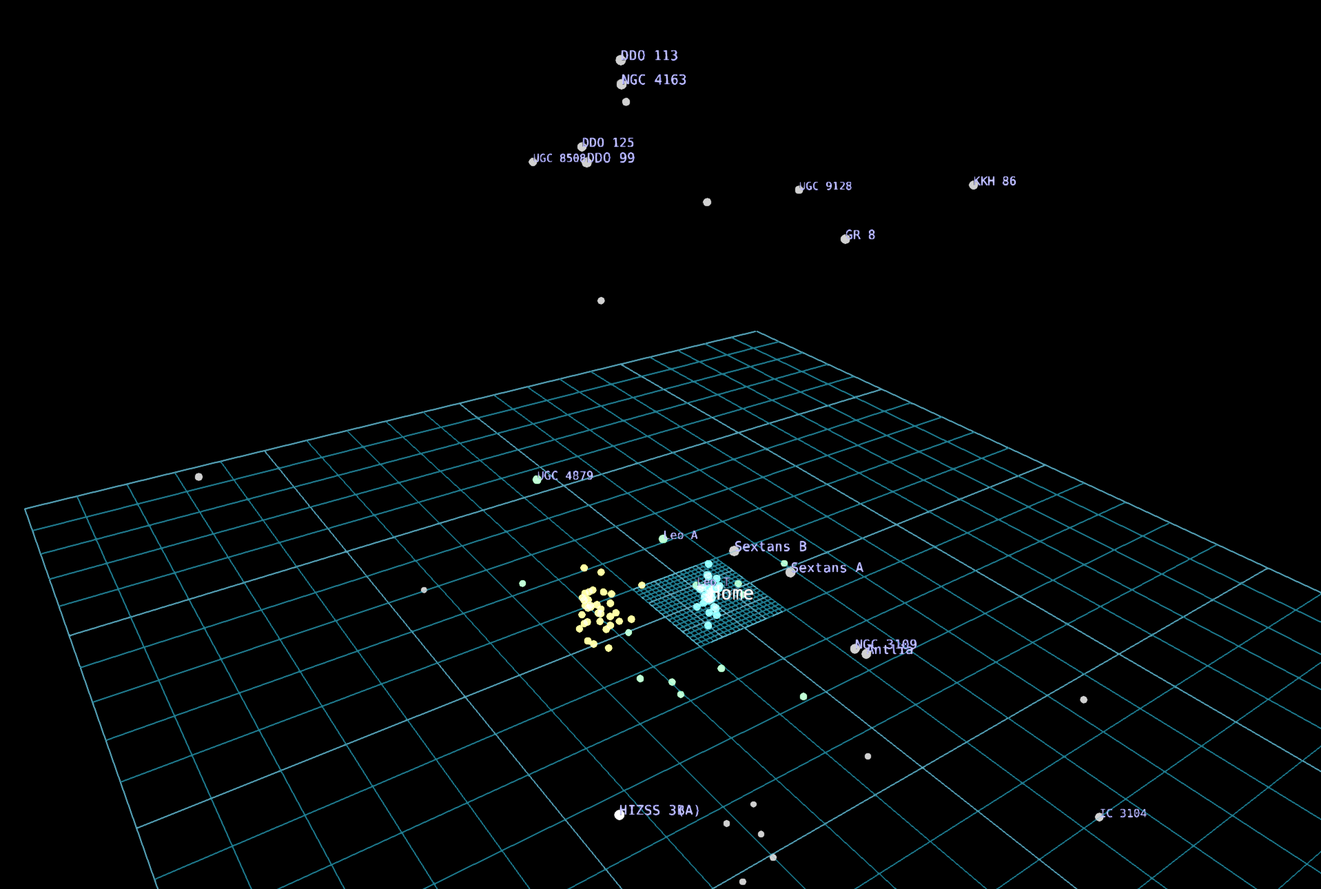
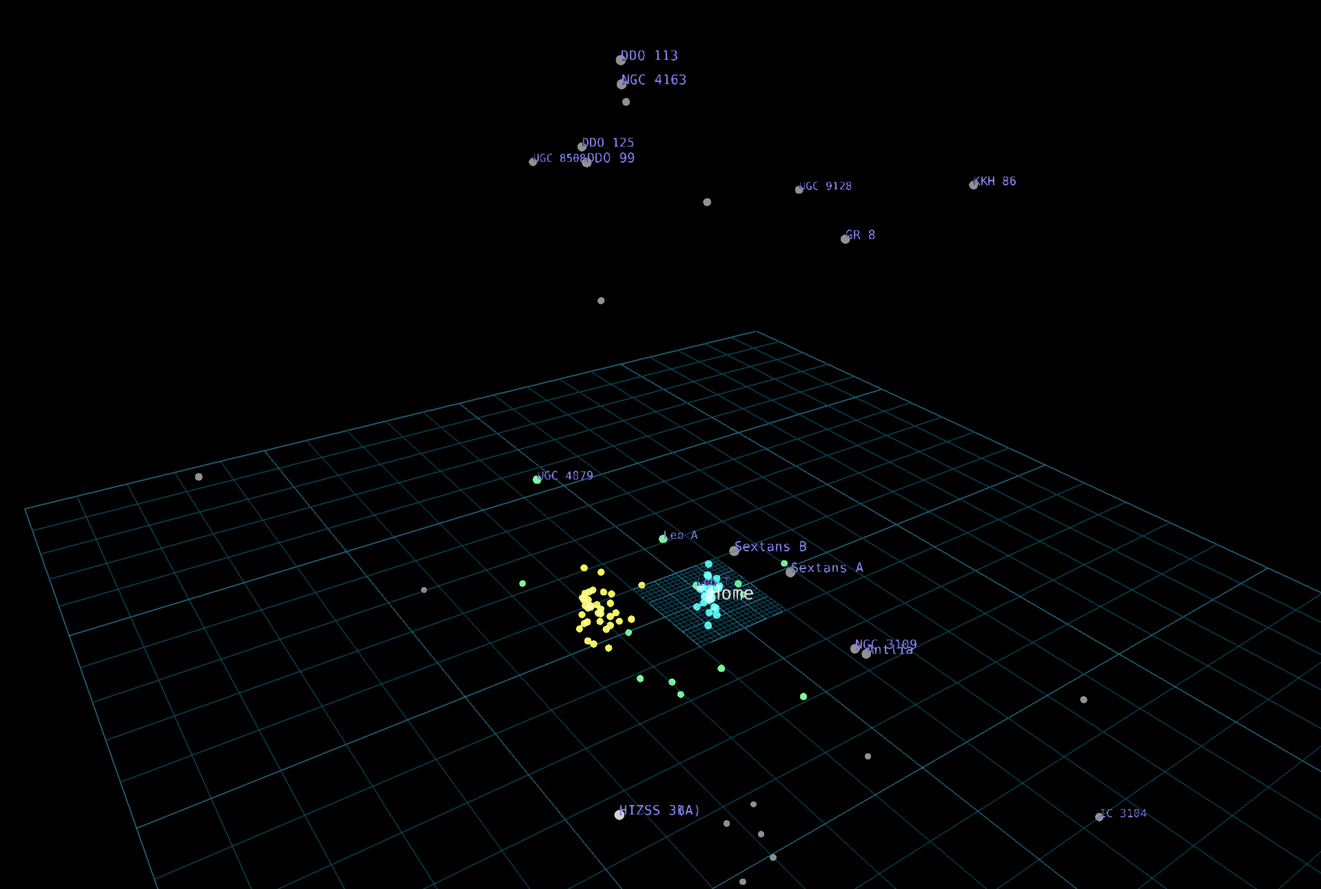
Proofreading and revisions.

diff --git a/content/universe/nearby-surveys/galaxy-cluster-labels/index.md b/content/universe/nearby-surveys/galaxy-cluster-labels/index.md
@@ -10,7 +10,7 @@ authors:
 {menuselection}`Universe --> Nearby Surveys --> Galaxy Cluster Labels`
 
 
-The Galaxy Cluster Labels dataset is a series of labels that mark where the large clusters of galaxies are in the nearby universe. These labels must be used in conjunction with the Tully galaxy group.
+The Galaxy Cluster Labels dataset is a series of labels that mark where the large clusters of galaxies are in the nearby universe. These labels must be used in conjunction with the [Tully Galaxies](../tully-galaxies/index).
 
 
 :::{figure} galaxy_clusters_nearby.png
@@ -39,26 +39,17 @@ Clusters are often named for the constellation in the night sky where they appea
 
 The large-scale structure of the universe is hierarchical in nature. Individual galaxies form small groups and larger galaxy clusters. These are organized into superclusters and filaments, and those, in turn, form larger meta structures like sheets and walls.
 
-In our neck of the woods, we are in the Local Group and the nearest large galaxy cluster is the **Virgo Cluster**, about 54 million light years from Earth. The Virgo Cluster is the heart of the larger Virgo Supercluster, of which the Milky Way and accompanying Local Group are members.
+In our part of the universe, we are in the Local Group and the nearest large galaxy cluster is the **Virgo Cluster**, about 54 million light years from Earth. The Virgo Cluster is the heart of the larger Virgo Supercluster, of which the Milky Way and accompanying Local Group are members.
 
-At roughly the same distance, but opposite the Milky Way from Virgo, is the **Fornax Cluster**. With fewer galaxies than Virgo, it is a rich, dynamic cluster with two lobes, one centered around a large elliptical galaxy NGC 1399, and the other lobe centered on a lenticular galaxy NGC 1316. This lobe is infalling into the main lobe, and the interaction forces are causing str formation within its galaxies.
+At roughly the same distance, but opposite the Milky Way from Virgo, is the **Fornax Cluster**. With fewer galaxies than Virgo, it is a rich, dynamic cluster with two lobes, one centered around a large elliptical galaxy NGC 1399, and the other lobe centered on a lenticular galaxy NGC 1316. This lobe is infalling into the main lobe, and the interaction forces are causing star formation within its galaxies.
 
 The **Antila Cluster** is the third-closest and part of the Hydra-Centaurus Supercluster. At about 133 million light years, the cluster is more dense and dominiated by a pair of elliptical galaxies rather than one massive elliptical. It contains about 230 galaxies.
 
-The **Centaurus Cluster** has hundreds of galaxies and is about 170 million light years away. It is dominated by one, large elliptical galaxy (NGC 4696), and, along with the IC4329 Cluster and the Hydra Cluster makes up the bulk of the Hydra-Centaurus Supercluster.
+The **Centaurus Cluster** has hundreds of galaxies and is about 170 million light years away. It is dominated by one, large elliptical galaxy, NGC 4696, and, along with the IC4329 Cluster and the Hydra Cluster makes up the bulk of the Hydra-Centaurus Supercluster.
 
 Farther away, the **Coma Cluster** and **Leo Cluster** are the heart of the Coma Supercluster. The Coma Cluster is massive, containing over 1,000 galaxies, and it's about 320 million light years away. It was the early example of observed gravitational anomalies, resulting in "unobserved mass," thereby introducing the dark matter theory. This was discovered by Fritz Zwicky (1898--1974) in 1933, who found that galaxies were moving too fast to be bound by gravity from visible matter alone. It would be another fifty years before the dark matter hypothesis was widely accepted. Today, we know 90% of the mass of the cluster is dark matter. 
 
-The **Norma Cluster** is about 220 million light years away. It is near the center of the Great Attractor, an area of gravitational attraction where much of our part of the universe is moving toward, including the Virgo Cluster and the Milky Way. Because it is located near the Milky Way---that band of light in the night sky---this cluster is severely obscured by gas and dust, making it difficult to see in visible light.
-
-<!-- :::{figure} .jpg
-:align: center
-:width: 50%
-:alt: 
-::: -->
-
-
-
+The **Norma Cluster** is about 220 million light years away. It is near the center of the Great Attractor, an area of gravitational attraction where much of our part of the universe is moving toward, including the Virgo Cluster and the Milky Way. Because it is located near that band of light in the night sky we call the Milky Way, this cluster is severely obscured by gas and dust, making it difficult to see in visible light.
 
 
 
@@ -91,5 +82,5 @@ A view of the more distant cluster, including the Coma, Leo, Norma, and Perseus 
 * - **Prepared by:**
   - R. Brent Tully, Stuart Levy, Brian Abbott (AMNH)
 * - **License:**
-  - ??? - link to a page?
+  - [AMNH's Digital Universe](../../../licenses/digital-universe-license.md)
 :::

diff --git a/content/universe/nearby-surveys/local-group/index.md b/content/universe/nearby-surveys/local-group/index.md
@@ -10,18 +10,18 @@ authors:
 {menuselection}`Universe --> Nearby Surveys --> Local Group`
 
 
-A group of galaxies is a small number of large galaxies that are typically surrounded by a larger number of small galaxies. These galaxies are gravitationally bound to one another. In the case of the Local Group, there are roughly two substructures, each centered around large, spiral galaxies, with a few other assorted galaxies that interact more loosely with the group.
+A *group* of galaxies is a small number of large galaxies that are typically surrounded by a larger number of small galaxies. These galaxies are gravitationally bound to one another. In the case of the Local Group, there are roughly two substructures, each centered around large, spiral galaxies, with a few other assorted galaxies that interact more loosely with the group.
 
 
 :::{figure} local_group_outside.png
 :align: left
 :alt: A view of the Local Group from outside with aqua points representing the Milky Way and its satellite galaxies, yellow points representing the Andromeda Galaxy and its satellite galaxies, green points are other Local Group galaxies, and gray points are neighboring galaxies. 
 
-The Local Group of galaxies. The Milky Way (labeled "Home") is surrounded by its dwarf galaxies in aqua, the Andromeda Galaxy is surrounded by its dwarfs in yellow, green galaxies are other Local Group members, and gray are other nearby galaxies. The inner grid extends to one million light years, and the outer grid traces out to ten million light years. 
+The Local Group of galaxies. The Milky Way (labeled "Home") is surrounded by its dwarf galaxies in aqua, the Andromeda Galaxy is surrounded by its dwarfs in yellow, green galaxies are other Local Group members, and gray points are other nearby galaxies. The inner grid extends to one million light years, and the outer grid traces out to ten million light years. 
 :::
 
 
-The Milky Way belongs to the Local Group, a term coined by Edwin Hubble (1889--1953), and is one of roughly 100 galaxies in that group. The Milky Way, the Andromeda Galaxy (also known as Messier 31, or M31), and the Triangulum Galaxy (M33) are three of the largest galaxies in the Local Group. Each is a spiral galaxy containing hundreds of billions of stars.
+The Milky Way belongs to the Local Group, a term coined by Edwin Hubble (1889--1953), and is one of roughly 100 galaxies in that group. The Milky Way, the Andromeda Galaxy (also known as Messier 31, or M31), and the Triangulum Galaxy (M33) are three of the largest galaxies in the Local Group. Each is a spiral galaxy contains hundreds of billions of stars.
 
 
 
@@ -30,7 +30,7 @@ The Milky Way belongs to the Local Group, a term coined by Edwin Hubble (1889--1
 :align: left
 :alt: The Milky Way Galaxy and its satellite dwarf galaxies.
 
-A close-up of the Milky Way Galaxy and its satellite galaxies in aqua. These include the Large and Small Magellanic CLouds (LMC and SMC, respectively), and some dwarf galaxies only discovered recently because they are interacting with the disk of our Galaxy.
+A close-up of the Milky Way Galaxy and its satellite galaxies in aqua. These include the Large and Small Magellanic Clouds (LMC and SMC, respectively), and some dwarf galaxies only discovered recently because they are interacting with the disk of our Galaxy.
 :::
 
 
@@ -54,7 +54,7 @@ Looking back toward the Milky Way (aqua) from the Andromeda Galaxy and its dwarf
 
 ## Other galaxy groups
 
-The Galaxy Group Labels identify many other nearby galaxy groups. Because the Local Group is, well, local, we see a fairly accurate representation of the dwarf galaxies that inhabit it. Neighboring groups are so far away, it's difficult to see their smaller members. With these other groups, we really only see the largest, brightest galaxies. If we considered the Local Group from afar, we would probably only see the Milky Way, Andromeda, and M33.
+The [Galaxy Group Labels](../galaxy-group-labels/index) identify many other nearby galaxy groups. Because the Local Group is, well, local, we see a fairly accurate representation of the dwarf galaxies that inhabit it. Neighboring groups are so far away, it's difficult to see their smaller members. With these other groups, we really only see the largest, brightest galaxies. If we considered the Local Group from afar, we would probably only see the Milky Way, Andromeda, and M33.
 
 
 
@@ -75,5 +75,5 @@ The Galaxy Group Labels identify many other nearby galaxy groups. Because the Lo
 * - **Prepared by:**
   - Brian Abbott (AMNH)
 * - **License:**
-  - ??? - link to a page?
+  - [AMNH's Digital Universe](../../../licenses/digital-universe-license.md)
 :::

diff --git a/content/universe/nearby-surveys/2MASS-galaxies/index.md b/content/universe/nearby-surveys/2MASS-galaxies/index.md
@@ -23,7 +23,7 @@ A mapping of galaxies using the 2MASS data with the same color map as the other 
 :::
 
 
-The goal of the 2MASS redshift survey was to map out to roughly z=0.03. This is roughly equal to about 370 million light years. It fills in more of the galaxies that were formerly blocked by our own Milky Way---that band of light across the sky. The infrared bands used on 2MASS can peer through a lot of the gas and dust.
+The goal of the 2MASS redshift survey was to map out to roughly a {term}`redshift <Redshift/blueshift>` of 0.03. This is roughly equal to about 370 million light years. It fills in more of the galaxies that were formerly blocked by our own Milky Way---that band of light across the sky. The infrared bands used on 2MASS can peer through a lot of the gas and dust.
 
 
 
@@ -34,9 +34,9 @@ The 2MASS and Tully data overlay one another, so which one is better? You may no
 
 ### Fingers of god
 
-A "finger of god" is a line of galaxies that point radially back to the Milky Way. Early in the process of mapping the local universe, astronomers noticed that galaxies, when plotted, appeared on lines that pointed radially back to Earth. It turns out, these lines, dubbed fingers of god, are a cluster of galaxies spread out radially (along the line of sight) because of the local motions within the cluster contaminate the redshift measurement, which we use to compute the distance. 
+A "finger of god" is a line of galaxies that point radially back to the Milky Way. Early in the process of mapping the local universe, astronomers noticed that galaxies, when plotted, appeared on lines that pointed radially back to Earth. It turns out, these lines, dubbed fingers of god, are a cluster of galaxies spread out radially (along the line of sight) because of the local motions within the cluster contaminate the {term}`redshift <Redshift/blueshift>` measurement, which we use to compute the distance. 
 
-For example, the galaxies of the Local Group are all moving in seemingly random directions as they gravitationally interact with one another---many are blueshifted (coming toward us) even as the universe expands. These local motions within clusters contaminate the overall redshift in the spectrum, causing the distances to be less accurate, and appearing to stretch these clusters along our line of sight.
+For example, the galaxies of the [Local Group](../local-group/index) are all moving in seemingly random directions as they gravitationally interact with one another---many are blueshifted (coming toward us) even as the universe expands. These local motions within clusters contaminate the overall redshift in the spectrum, causing the distances to be less accurate, and appearing to stretch these clusters along our line of sight.
 
 
 ## Dossier
@@ -45,15 +45,15 @@ For example, the galaxies of the Local Group are all moving in seemingly random 
 :class: full-width
 
 * - **Census:**
-  - ??? galaxies
+  - 43,533 galaxies
 * - **Asset Version:**
-  - 
+  - 2.0
 * - **Data Version:**
-  - 
+  - 1.01
 * - **Reference:**
   - [The 2MASS Large Galaxy Atlas](https://iopscience.iop.org/article/10.1086/345794), (private communication, Tom Jarrett)
 * - **Prepared by:**
   - Tom Jarrett (IPAC), Brian Abbott (AMNH)
 * - **License:**
-  - ??? - link to a page?
+  - [AMNH's Digital Universe](../../../licenses/digital-universe-license.md)
 :::

diff --git a/content/universe/nearby-surveys/tully-galaxies-images/index.md b/content/universe/nearby-surveys/tully-galaxies-images/index.md
@@ -12,7 +12,7 @@ authors:
 
 We've grown accustomed to seeing galaxies as multicolored points. Typically, these colors represent density, where orange galaxies are in a dense, galaxy-rich part of the universe and aqua-colored galaxies are in a less dense, galaxy-poor part of the universe.
 
-The Tully Galaxy Survey is rich for a number of reasons. For one, the galaxy positions are massaged---{term}`fingers of god <finger of god>` and systematic uncertainties are adjusted to yield a more scientifically accurate rendition of the structure. The Tully Galaxies also have an image attached to each galaxy in the data set.
+The [Tully Galaxy Survey](../tully-galaxies/index) is rich for a number of reasons. For one, the galaxy positions are massaged---{term}`fingers of god <finger of god>` and systematic uncertainties are adjusted to yield a more scientifically accurate rendition of the structure. The Tully Galaxies also have an image attached to each galaxy in the data set.
 
 These images have several qualities:
 - They are accurately sized
@@ -32,9 +32,9 @@ A view of the Virgo Cluster with the Tully Galaxy points off. Normally these wou
 
 ## Image size and visibility
 
-From a wide perspective, these images are impossible to see, hence the need for points. Galaxies are so small relative to our typical view in openSpace that one must be right beside them in order for their image to be visible. This is a consequence of having properly-sized images for each galaxy.
+From a wide perspective, these images are impossible to see, hence the need for points. Galaxies are so small relative to our typical view in OpenSpace that one must be right beside them in order for their image to be visible. This is a consequence of having properly-sized images for each galaxy.
 
-While we would *never* do this in the public show, it is possible to exaggerate the image sizes. Using the menu item {menuselection}`Tully Galaxies Images -> Renderable -> Sizing -> Scale Factor`, you can make the images larger, to the point that neighboring galaxies are overlapping. This is **completely** unrealistic and inaccurate, but it can be illustrative at times and with restraint.
+While we would *never* do this in the public show, it is possible to exaggerate the image sizes. Using the menu item {menuselection}`Tully Galaxies Images -> Renderable -> Sizing -> Scale Factor`, you can make the images larger, to the point that neighboring galaxies are overlapping. This is **completely unrealistic and inaccurate**, but it can be illustrative at times when used with restraint.
 
 
 :::{figure} images_virgo_cluster_large.png
@@ -70,7 +70,7 @@ A view of the nearby universe with grossly exaggerated images and labels for gal
 :align: left
 :alt: The Tully Galaxies as seen with highly exaggerated images.
 
-An outrageous exaggeration---the Tully Galaxy Images so large we can see the structure of the universe from outside the data set.
+An outrageous exaggeration---the Tully Galaxy Images are so large we can see the structure of the universe from outside the data set.
 :::
 
 
@@ -92,5 +92,5 @@ An outrageous exaggeration---the Tully Galaxy Images so large we can see the str
 * - **Prepared by:**
   - Stuart Levy (NCSA)
 * - **License:**
-  - ??? - link to a page?
+  - [AMNH's Digital Universe](../../../licenses/digital-universe-license.md)
 :::

diff --git a/content/universe/nearby-surveys/6df-galaxies/index.md b/content/universe/nearby-surveys/6df-galaxies/index.md
@@ -23,7 +23,7 @@ The 6dF galaxies resemble those of Tully, in scale and in color. We use the same
 
 
 
-This catalog overlaps with the Tully dataset, and there is a noticeable difference in the quality of these datasets. Tully is much tighter and the structure is more apparent, while the 6dF data are more spread out with noticeable {term}`fingers of god <finger of god>`. This is because of local motions within galaxy clusters have not been corrected in these data. (see explanation in the 2MASS Galaxies).
+This catalog overlaps with the [Tully Galaxies](../tully-galaxies/index), and there is a noticeable difference in the quality of these datasets. Tully is much tighter and the structure is more apparent, while the 6dF data are more spread out with noticeable {term}`fingers of god <finger of god>`. This is because of local motions within galaxy clusters have not been corrected in these data. (see explanation in the [2MASS Galaxies](../2MASS-galaxies/index)).
 
 In addition, the 6dF Galaxies cover only the southern sky. It will only overlap with half of the Tully or 2MASS galaxy surveys.
 
@@ -38,14 +38,14 @@ An "edge-on" view of the 6dF Galaxies, which observed only the southern sky, hen
 
 ## Completeness
 
-Unlike the Tully galaxies, these data show an incompleteness in the sample. Most of the rich structure is visible closer to the Milky Way, where we see more of the dimmer galaxies. Toward the edge of the data set we see galaxies by their lonesome. This is because these data are not as complete. We’re only seeing the brighter galaxies to this distance, and therefore less complex structures are visible.
+Unlike the Tully galaxies, these data show an incompleteness in the sample. Most of the rich structure is visible closer to the Milky Way, where we see more of the dimmer galaxies. Toward the edge of the data set we see galaxies by their lonesome. This is because these data are not as {term}`complete <completeness>`. We're only seeing the brighter galaxies to this distance, and therefore less complex structures are visible.
 
 
 :::{figure} 6df_nightsky_cutoff.png
 :align: left
 :alt: A night sky view with the stars, constellation lines, and the band of the Milky Way, along with the 6dF Galaxies seen in the southern sky.
 
-The 6dF Galaxies from the night sky perspective. We see the band of the Milky Way, the stars and constellation lines, with lines of right ascension and declination. The 6dF Galaxies lie below the celestial equator, the souther half of the sky.
+The 6dF Galaxies from the night sky perspective. We see the band of the Milky Way, the stars and constellation lines, with lines of right ascension and declination. The 6dF Galaxies lie below the celestial equator, the southern half of the sky.
 :::
 
 
@@ -67,5 +67,5 @@ The 6dF Galaxies from the night sky perspective. We see the band of the Milky Wa
 * - **Prepared by:**
   - Brian Abbott, Sohum Udani (AMNH)
 * - **License:**
-  - ??? - link to a page?
+  - [AMNH's Digital Universe](../../../licenses/digital-universe-license.md)
 :::

diff --git a/content/universe/nearby-surveys/voids/index.md b/content/universe/nearby-surveys/voids/index.md
@@ -10,7 +10,7 @@ authors:
 {menuselection}`Universe --> Nearby Surveys --> Voids`
 
 
-Cosmic voids are immense areas of little or no galaxies. These exist between filaments of galaxies and are typically tens of millions or hundreds of millions of light years in diameter. They are the negative space in the large-scale structure of the universe.
+Cosmic voids are immense areas with little or no galaxies. These exist between filaments of galaxies and are typically tens of millions or hundreds of millions of light years in diameter. They are the negative space in the large-scale structure of the universe.
 
 
 :::{figure} voids_nearby.png
@@ -26,11 +26,11 @@ The Void Labels data are designed to be shown with the Tully galaxies.
 :::
 
 
-Voids are a tracer of the evolution of the universe. The cold spots in the cosmic microwave background images are believed to evolve into the voids we see today. (The warmer spots in the images are believed to evolve into the large-scale structure of galaxies and matter we currently see---more on this in the cosmic microwave background section.)
+Voids are a tracer of the evolution of the universe. The cold spots in the cosmic microwave background images are believed to evolve into the voids we see today. (The warmer spots in the images are believed to evolve into the large-scale structure of galaxies and matter we currently see---more on this in the [cosmic microwave background section](../../cosmic-microwave-background/index).)
 
 Voids likely have some matter in them, but are overshadowed by the more massive galaxies that gravitate toward the large-scale structure that we see---clusters, superclusters,  and filaments of galaxies.
 
-Voids are often mostly spherical, partly shaped by the expansion of the universe. They, therefore, are important for studying dark energy and other properties of the expanding universe. As the universe expands, the changing shape of the voids reveals to us the nature of the dark energy and parameters of the universe. 
+Voids are often mostly spherical, partly shaped by the expansion of the universe. They, therefore, are important for studying dark energy and other properties of the expanding universe that shape them. As the universe expands, the changing shape of the voids reveals to us the nature of the dark energy and parameters of the universe. 
 
 
 
@@ -61,5 +61,5 @@ A view of the void labels from outside the Tully Galaxies. Again, it's a lot eas
 * - **Prepared by:**
   - Brian Abbott (AMNH)
 * - **License:**
-  - ??? - link to a page?
+  - [AMNH's Digital Universe](../../../licenses/digital-universe-license.md)
 :::

diff --git a/content/universe/index.md b/content/universe/index.md
@@ -14,7 +14,7 @@ authors:
 
 These data sets are more homogeneous, consisting mostly of galaxy surveys. We also display the microwave all-sky images here, and a few other contextual data sets.
 
-Unlike the Milky Way that is organized by object type, here we divide the data by nearby surveys, deep sky surveys, and the cosmic microwave background all-sky maps.
+Unlike the Milky Way that is organized by object type, here we divide data by nearby surveys, deep sky surveys, and the cosmic microwave background all-sky maps.
 
 :::{figure} universe.png
 :align: left
@@ -25,7 +25,7 @@ The Sloan Digital Sky Survey. The red points are quasars and the blue and green 
 
 
 
-**Our Cosmic Perspective**
+## Our cosmic perspective---where is the center?
 
 When you look at the data sets in the Universe section, it's tempting to believe we are the center of the universe. One of the consequences of showing real scientific data observed from telescopes on Earth, or in orbit around Earth, is that it appears that the Milky Way, the Sun, and the Earth
 are at the center of the universe.
@@ -40,6 +40,18 @@ The common analogy is to imagine an infinitely large raisin bread. As the bread 
 Another two-dimensional analogy is to imagine an infinitely large rubber sheet that's being stretched from all directions. No matter where you are, every other point will be moving farther away from you.
 
 That is the nature of the universe. There is no center and, except for very nearby galaxies where gravity remains influential, everything is receding from an observer at any location. 
+
+
+
+% ## Distance frame
+
+% In all our extragalactic data sets, we choose the philosophy of "where are they now" when it comes to plotting distances. Because of the relativistic effects on these cosmological scales, we have to decide whether we plot objects at the point the light we see left that object, the so called *lookback time*, or whether we plot them at their current position that accounts for the expansion of the universe.
+
+% ### Lookback time
+
+% If we plotted objects according to their lookback time, then we'd expect everything to fit within the 13.8-billion-year age of the universe. The farthest quasars would be around 12 to 13 billion light years from Earth. The limit of our observable universe, the cosmic microwave background light, would stretch out to about 13.3 billion light years. 
+
+
 
 
 

diff --git a/content/universe/nearby-surveys/galaxy-group-labels/index.md b/content/universe/nearby-surveys/galaxy-group-labels/index.md
@@ -10,7 +10,7 @@ authors:
 {menuselection}`Universe --> Nearby Surveys --> Galaxy Group Labels`
 
 
-As we outlined in [Local Group](../local-group/index), a galaxy group is a small number of galaxies gravitationally interacting with one another. Often, it consists of a one or a few large galaxies like the Milky Way and a cadre of small, satellite galaxies that orbit them.
+As we outlined in [Local Group](../local-group/index), a galaxy group is a small number of galaxies gravitationally interacting with one another. Often, it consists of a one or a few large galaxies, like the Milky Way, and a cadre of small, satellite galaxies that orbit them.
 
 The Galaxy Groups Labels is a set of labels that identifies the nearby groups in the Tully Galaxies. 
 
@@ -29,7 +29,7 @@ The Galaxy Group Labels data are designed to be shown with the Tully galaxies.
 
 
 
-While the Local Group is fairly fleshed out---we see many of the dwarf galaxies orbiting our galaxy and those around the Andromeda Galaxy---the surrounding groups are less well known. They are so far away that we cannot see the small dwarf galaxies within them. So, most of these galaxy groups have only a one, two or a few galaxies to them. These will be the largest galaxies in those groups, just as the Milky Way and Andromeda are the largest in the Local Group.
+While the Local Group is fairly fleshed out---we see many dwarf galaxies orbiting the Milky Way and Andromeda Galaxies---the surrounding groups are less well known. They are so far away that we cannot see the small dwarf galaxies within them. So, most of these galaxy groups have only a one, two or a few galaxies to them. These will be the largest galaxies in those groups, just as the Milky Way and Andromeda are the largest in the Local Group.
 
 Some of the closest groups include the M81 Group, the Sculptor Group, the Cen A Group, and the NGC 2403 Group. Each of these contain one or more large galaxies. Historically, the term *cloud* was used to describe groups of groups, but this term has fallen from favor given it's physically ambiguous.
 
@@ -60,5 +60,5 @@ Galaxy groups around the Local Group showing a concentration of groups that incl
 * - **Prepared by:**
   - R. Brent Tully, Stuart Levy, Brian Abbott (AMNH)
 * - **License:**
-  - ??? - link to a page?
+  - [AMNH's Digital Universe](../../../licenses/digital-universe-license.md)
 :::

diff --git a/content/universe/nearby-surveys/tully-galaxies/index.md b/content/universe/nearby-surveys/tully-galaxies/index.md
@@ -18,7 +18,7 @@ The Tully Catalog is the most polished, accurate catalog of nearby galaxies. It 
 :align: left
 :alt: The Tully Nearby Galaxy Catalog represented as points of orange, green, and aqua points. 
 
-The Tully Nearby Galaxy Catalog from outside the data. It's difficult to capture the nature of this atlas in a static image, but we see here the large-scale structure of the local universe, with large galaxy clusters in orange and more remote galaxies in aqua.
+The Tully Nearby Galaxy Catalog from outside the data. It's difficult to capture the nature of this atlas in a static image, but we see here the large-scale structure of the local universe, with large galaxy clusters in orange and yellow and more remote galaxies in aqua.
 :::
 
 
@@ -68,7 +68,7 @@ A view from outside the Virgo Cluster (top), with the Milky Way (Home) in the di
 
 ## Size and shape of these data
 
-The Tully data forms a cube, which is a cutoff based on the completeness of these data. Beyond this, data from these sources are not as reliable, so effort is made to show a complete picture, albeit limited by observations (for example, we cannot see dwarf galaxies much beyond the Local Group).
+The Tully data forms a cube, which is a cutoff based on the {term}`completeness` of these data. Beyond this, data from these sources are not as reliable, so effort is made to show a complete picture, albeit limited by observations (for example, we cannot see dwarf galaxies much beyond the Local Group).
 
 The size of the cube is roughly 700 million light years on a side, or about 1 billion light years on the diagonal.
 
@@ -131,5 +131,5 @@ The integers assigned to these types are decoded in the table below. In this num
 * - **Prepared by:**
   - R. Brent Tully, Stuart Levy, Brian Abbott (AMNH)
 * - **License:**
-  - ??? - link to a page?
+  - [AMNH's Digital Universe](../../../licenses/digital-universe-license.md)
 :::

diff --git a/content/universe/nearby-surveys/home-label/index.md b/content/universe/nearby-surveys/home-label/index.md
@@ -20,7 +20,7 @@ The Home label, at center, marks the location of the Milky Way Galaxy. Here, we 
 
 The Home Label is our monicker for the Milky Way on this scale outside the Galaxy. We use "home" mainly because it harkens back to our place in the universe, and it's shorter and less visually cluttered.
 
-In the image above, we can see the Milky Way (Home) alongside some of its neighboring galaxies which are also labeled. Here, each point you see is a galaxy. Orange and yellow are in more dense areas while green and aqua are in less dense areas of the local universe.
+In the image above, we can see the Milky Way (Home) alongside some of its neighboring galaxies which are also labeled. Here, each point you see is a galaxy. Orange and yellow galaxies are in more dense areas while green and aqua galaxies are in less dense areas of the local universe.
 
 
 

diff --git a/content/universe/nearby-surveys/index.md b/content/universe/nearby-surveys/index.md
@@ -10,7 +10,7 @@ authors:
 {menuselection}`Universe --> Nearby Surveys`
 
 
-Nearby Surveys describes the neighborhood around the Milky Way Galaxy. Here, we have a better idea of what's out there (hint: galaxies) and the structures formed by those galaxies.
+Nearby Surveys describe the neighborhood around the Milky Way Galaxy. Here, we have a better idea of what's out there (hint: galaxies) and the structures formed by those galaxies.
 
 The galaxy surveys here are generally more complete, and they cover most of the sky. Beyond the Nearby Surveys, galaxy surveys tend to be less complete and cover less area on the night sky.
 
